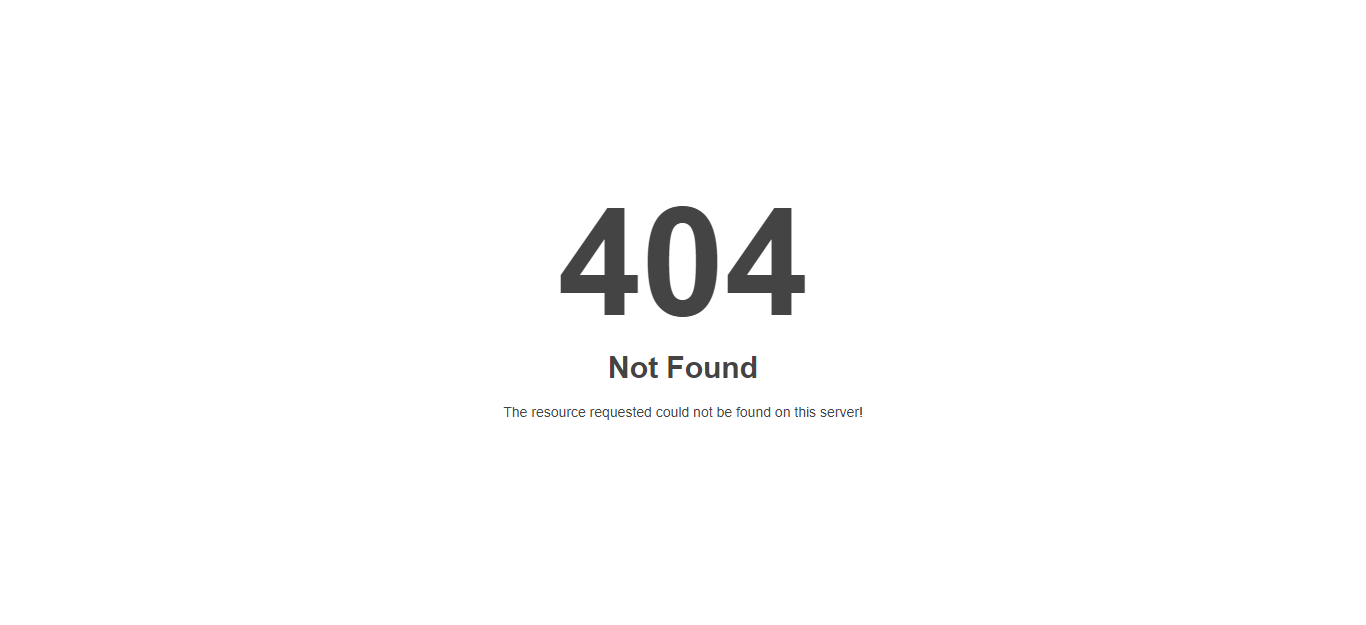
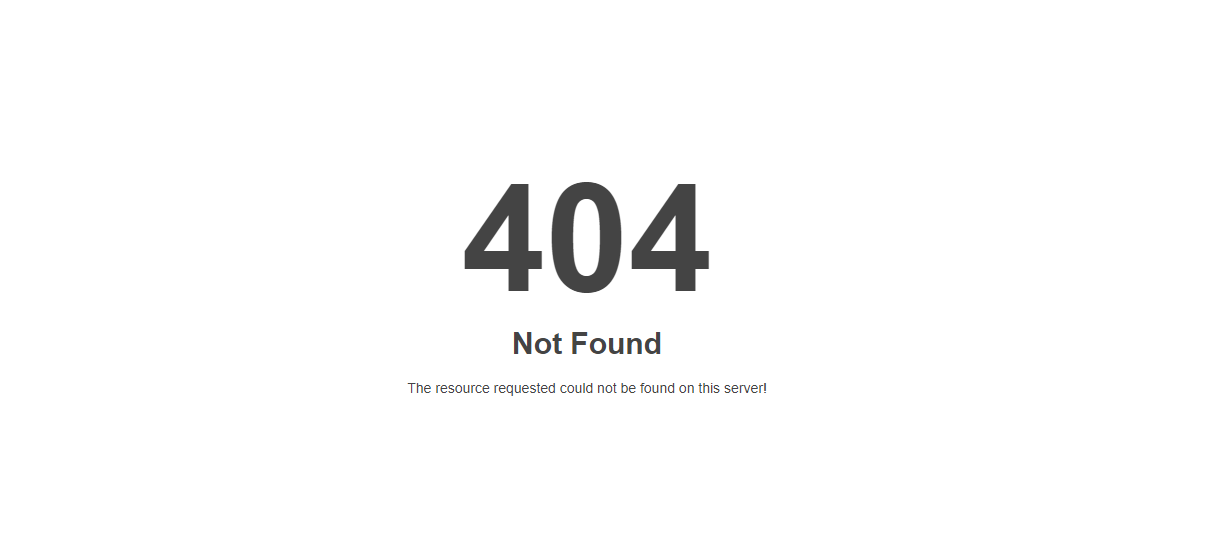
img404

Changed region(s): [[0.3398, 0.3058, 0.6488, 0.7032]]

diff --git a/src/app/not-found/not-found.component.html b/src/app/not-found/not-found.component.html
@@ -1,1 +1,3 @@
-<p>not-found works!</p>
+<div class="flex flex-column justify-content-center">
+    <div class="p2"><img src="assets/404.png" alt="404 Not Found"></div>
+</div>
